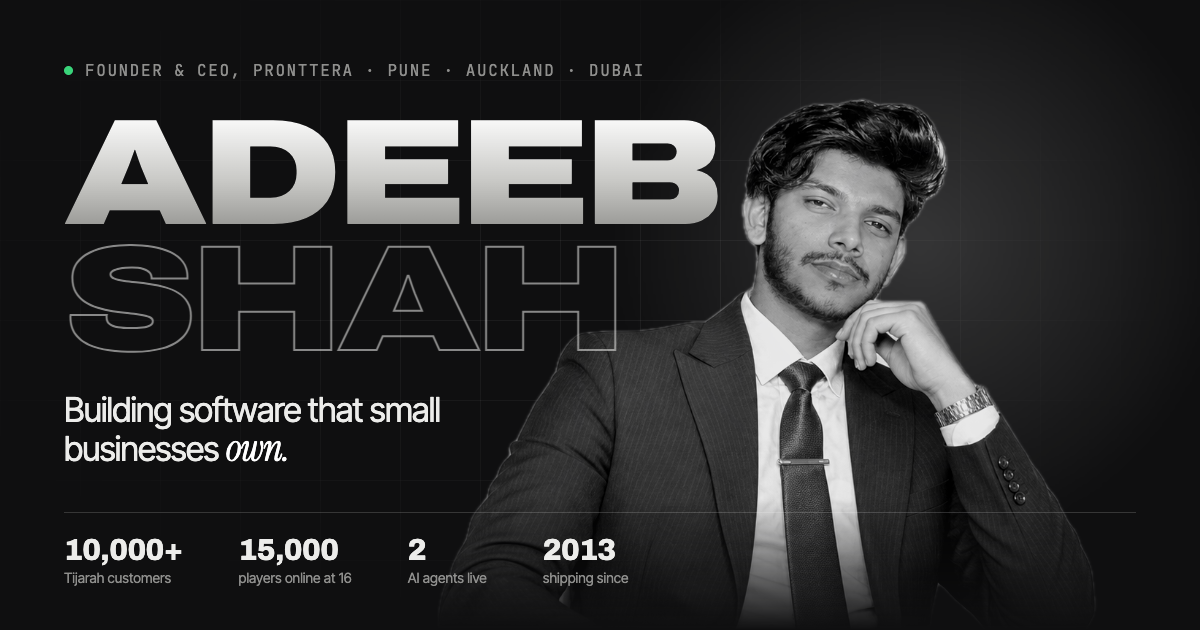
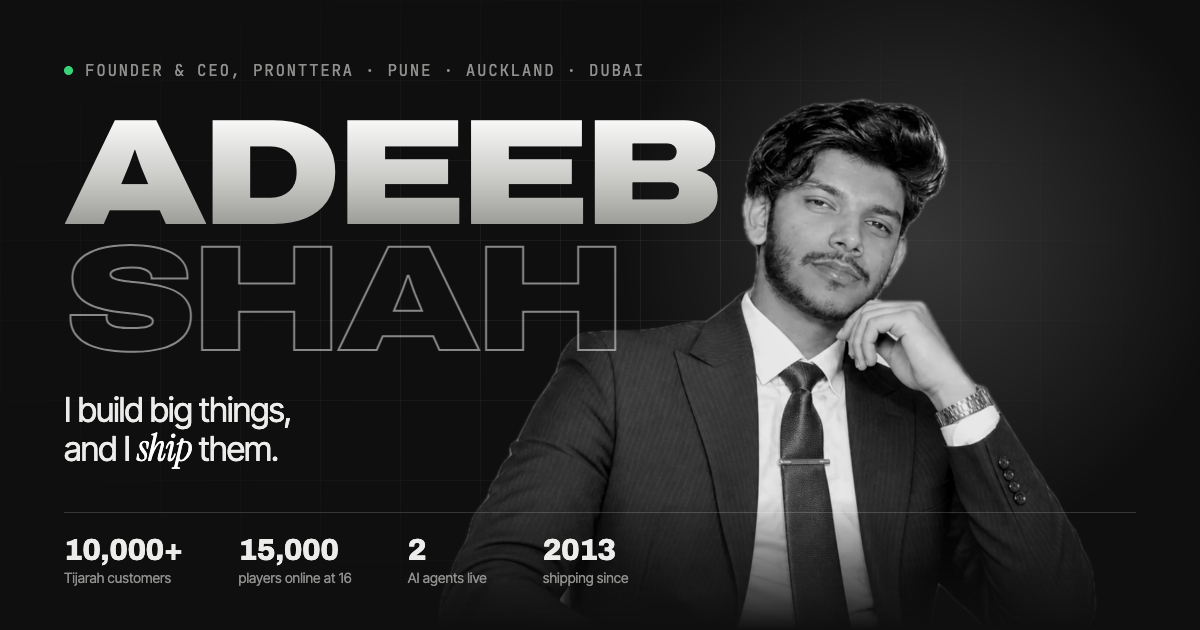
Hero tagline: "I build big things, and I ship them."
Speaks to employers and clients rather than describing the product
thesis. Updated in the hero, page description, link-preview text,
manifest and the share image.

Changed region(s): [[0.0308, 0.6333, 0.37, 0.754]]

diff --git a/app/layout.tsx b/app/layout.tsx
@@ -10,7 +10,7 @@ const mono = JetBrains_Mono({ variable: "--f-mono", subsets: ["latin"] });
 const SITE = process.env.NEXT_PUBLIC_SITE_URL ?? "http://localhost:3222";
 const TITLE = "Adeeb Shah · Founder & CEO, Pronttera";
 const DESC =
-  "Adeeb Shah builds software that lets small businesses own their customers. Founder of Pronttera, maker of Tijarah (10,000+ customers) and Frostique, shipping AI agents in production. Ran a Ragnarok server for 15,000 players at sixteen. Pune · Auckland · Dubai.";
+  "Adeeb Shah builds big things and ships them. Founder & CEO of Pronttera, maker of Tijarah (10,000+ customers) and Frostique, shipping AI agents in production. Ran a Ragnarok server for 15,000 players at sixteen. Pune · Auckland · Dubai.";
 
 export const metadata: Metadata = {
   metadataBase: new URL(SITE),
@@ -32,7 +32,7 @@ export const metadata: Metadata = {
   twitter: {
     card: "summary_large_image",
     title: TITLE,
-    description: "Building software that small businesses own. Founder & CEO, Pronttera.",
+    description: "I build big things, and I ship them. Founder & CEO, Pronttera.",
     creator: "@adeebshah41",
   },
   robots: { index: true, follow: true },

diff --git a/components/Hero.tsx b/components/Hero.tsx
@@ -147,8 +147,8 @@ export default function Hero() {
           <Letters text={PERSON.last} className="w2" />
         </h1>
         <p className="tag">
-          <span className="ln"><span>Building software that small</span></span>
-          <span className="ln"><span>businesses <em>own.</em></span></span>
+          <span className="ln"><span>I build big things,</span></span>
+          <span className="ln"><span>and I <em>ship</em> them.</span></span>
         </p>
         <div className="index">
           {INDEX.map(([n, name, note]) => (

diff --git a/app/manifest.ts b/app/manifest.ts
@@ -4,7 +4,7 @@ export default function manifest(): MetadataRoute.Manifest {
   return {
     name: "Adeeb Shah · Founder & CEO, Pronttera",
     short_name: "Adeeb Shah",
-    description: "Builds software that lets small businesses own their customers. Tijarah, Frostique, FitStack, and AI agents in production.",
+    description: "Builds big things and ships them: Tijarah, Frostique, FitStack, and AI agents in production.",
     start_url: "/",
     display: "standalone",
     background_color: "#0f0f10",
